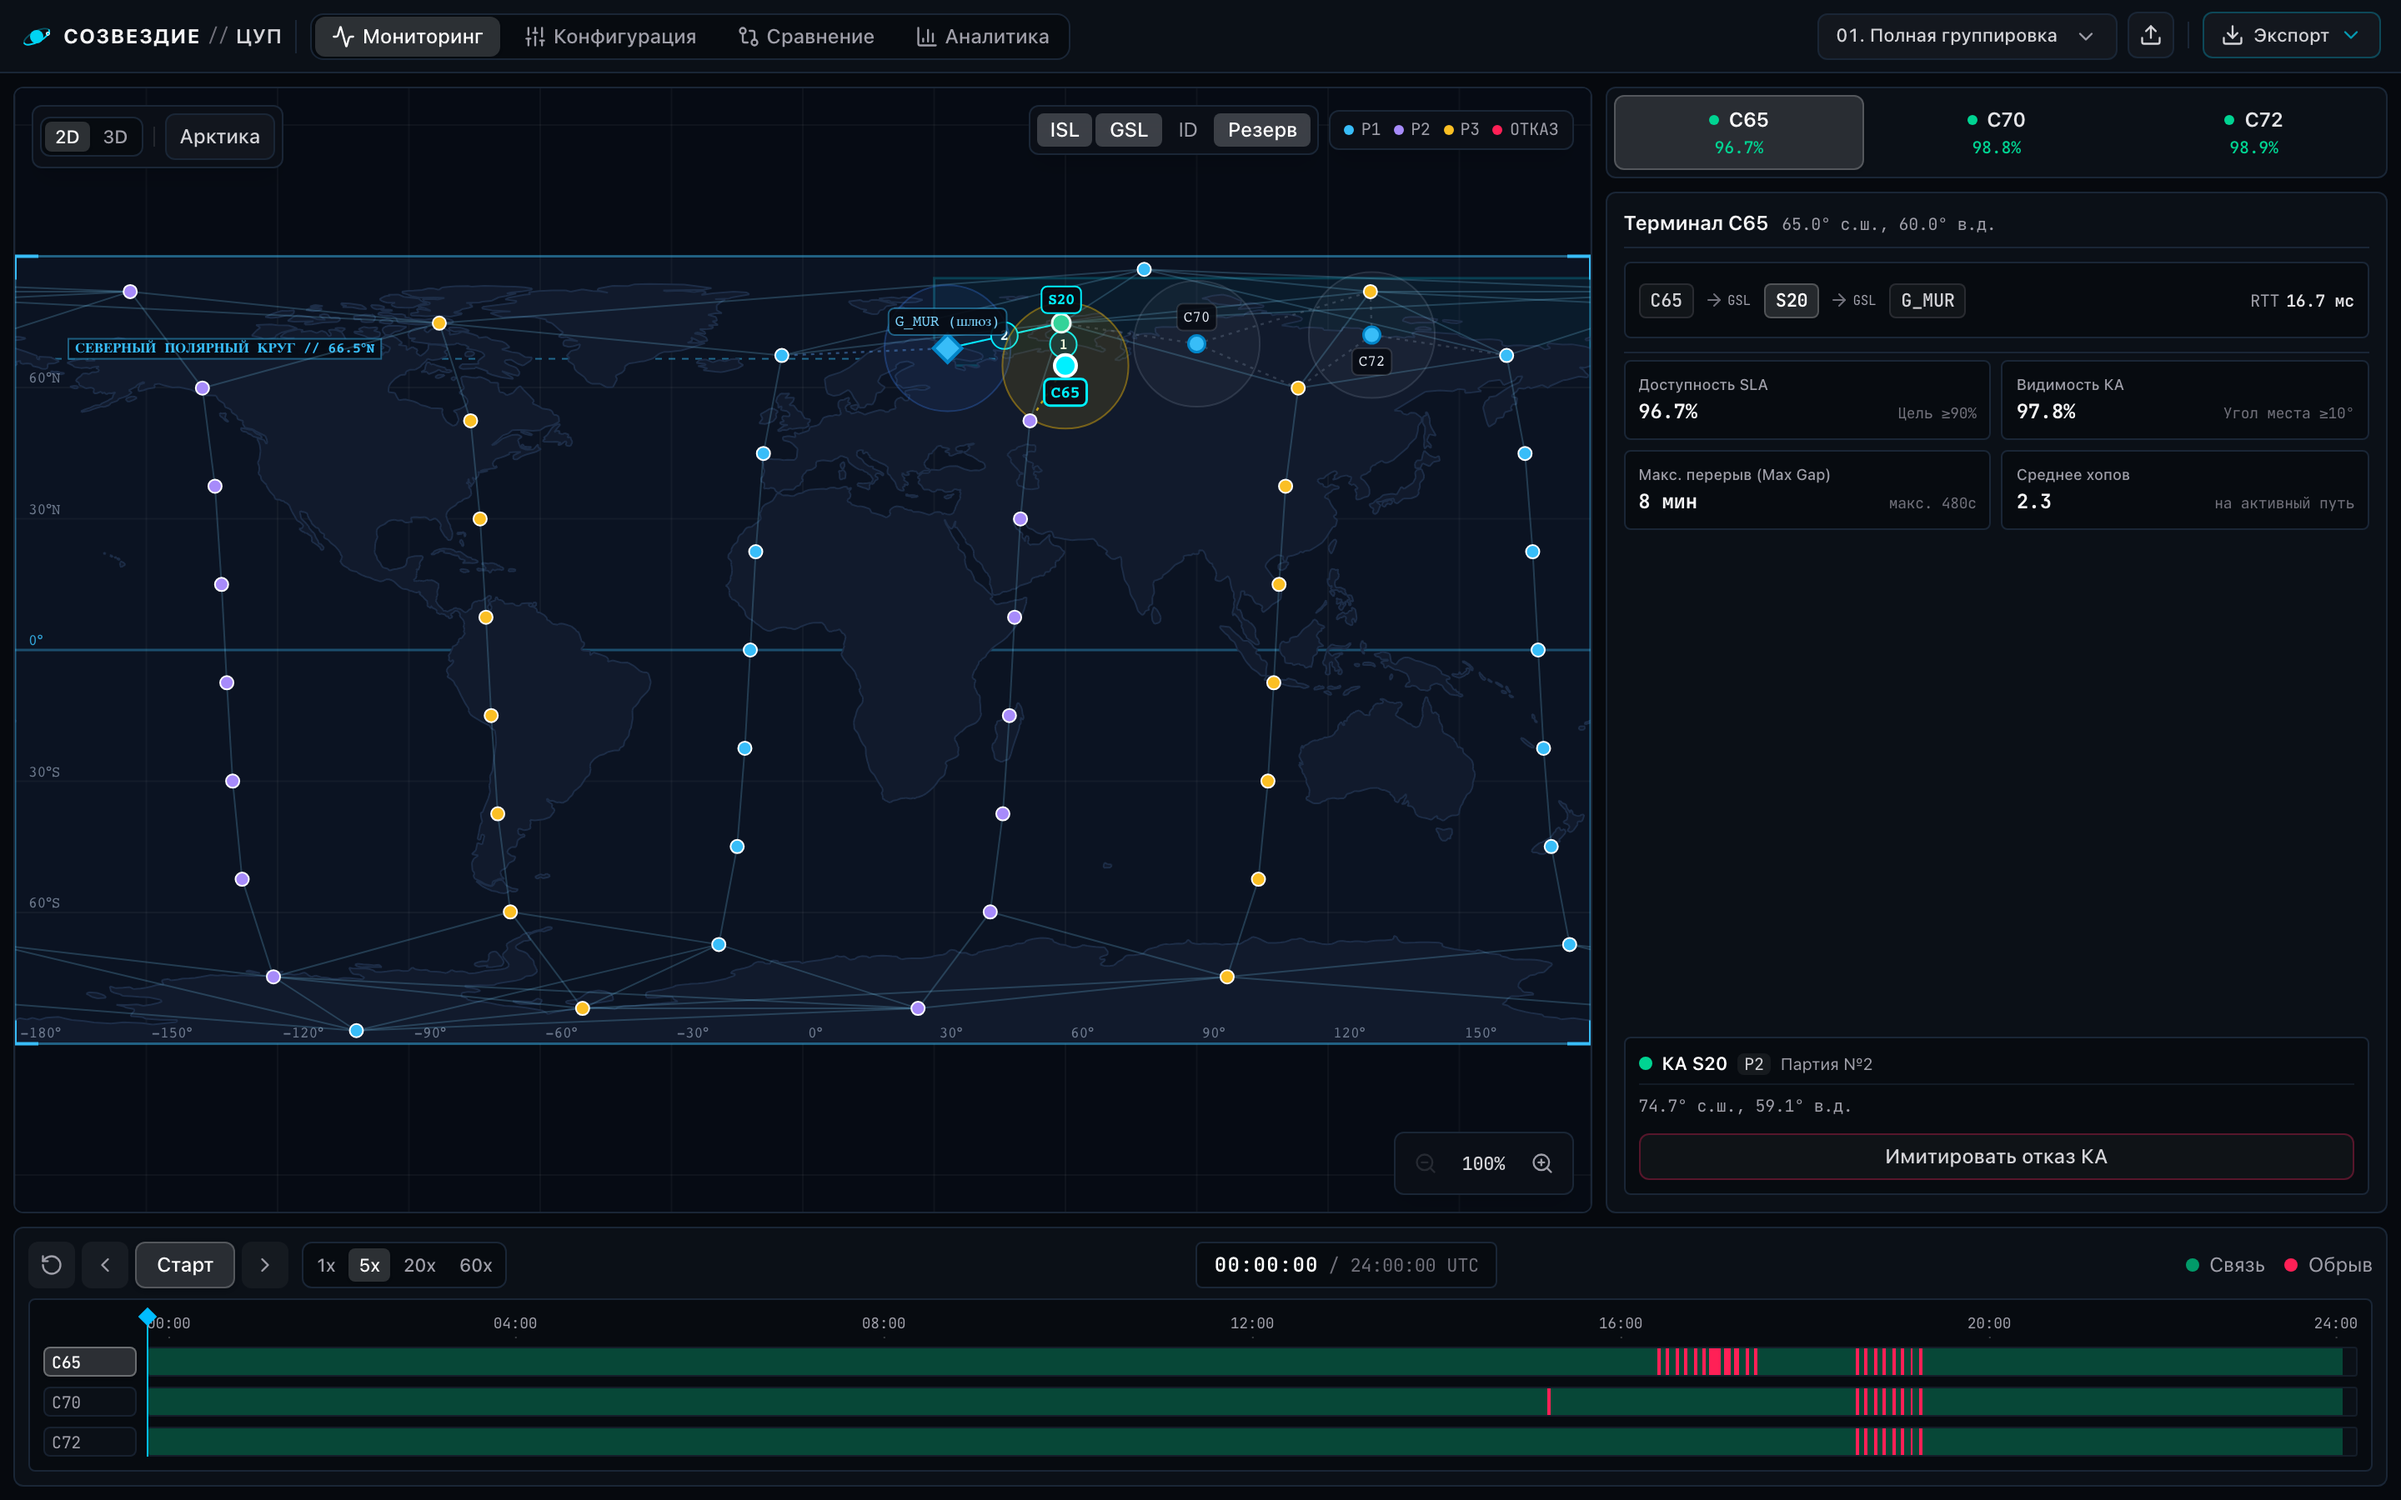
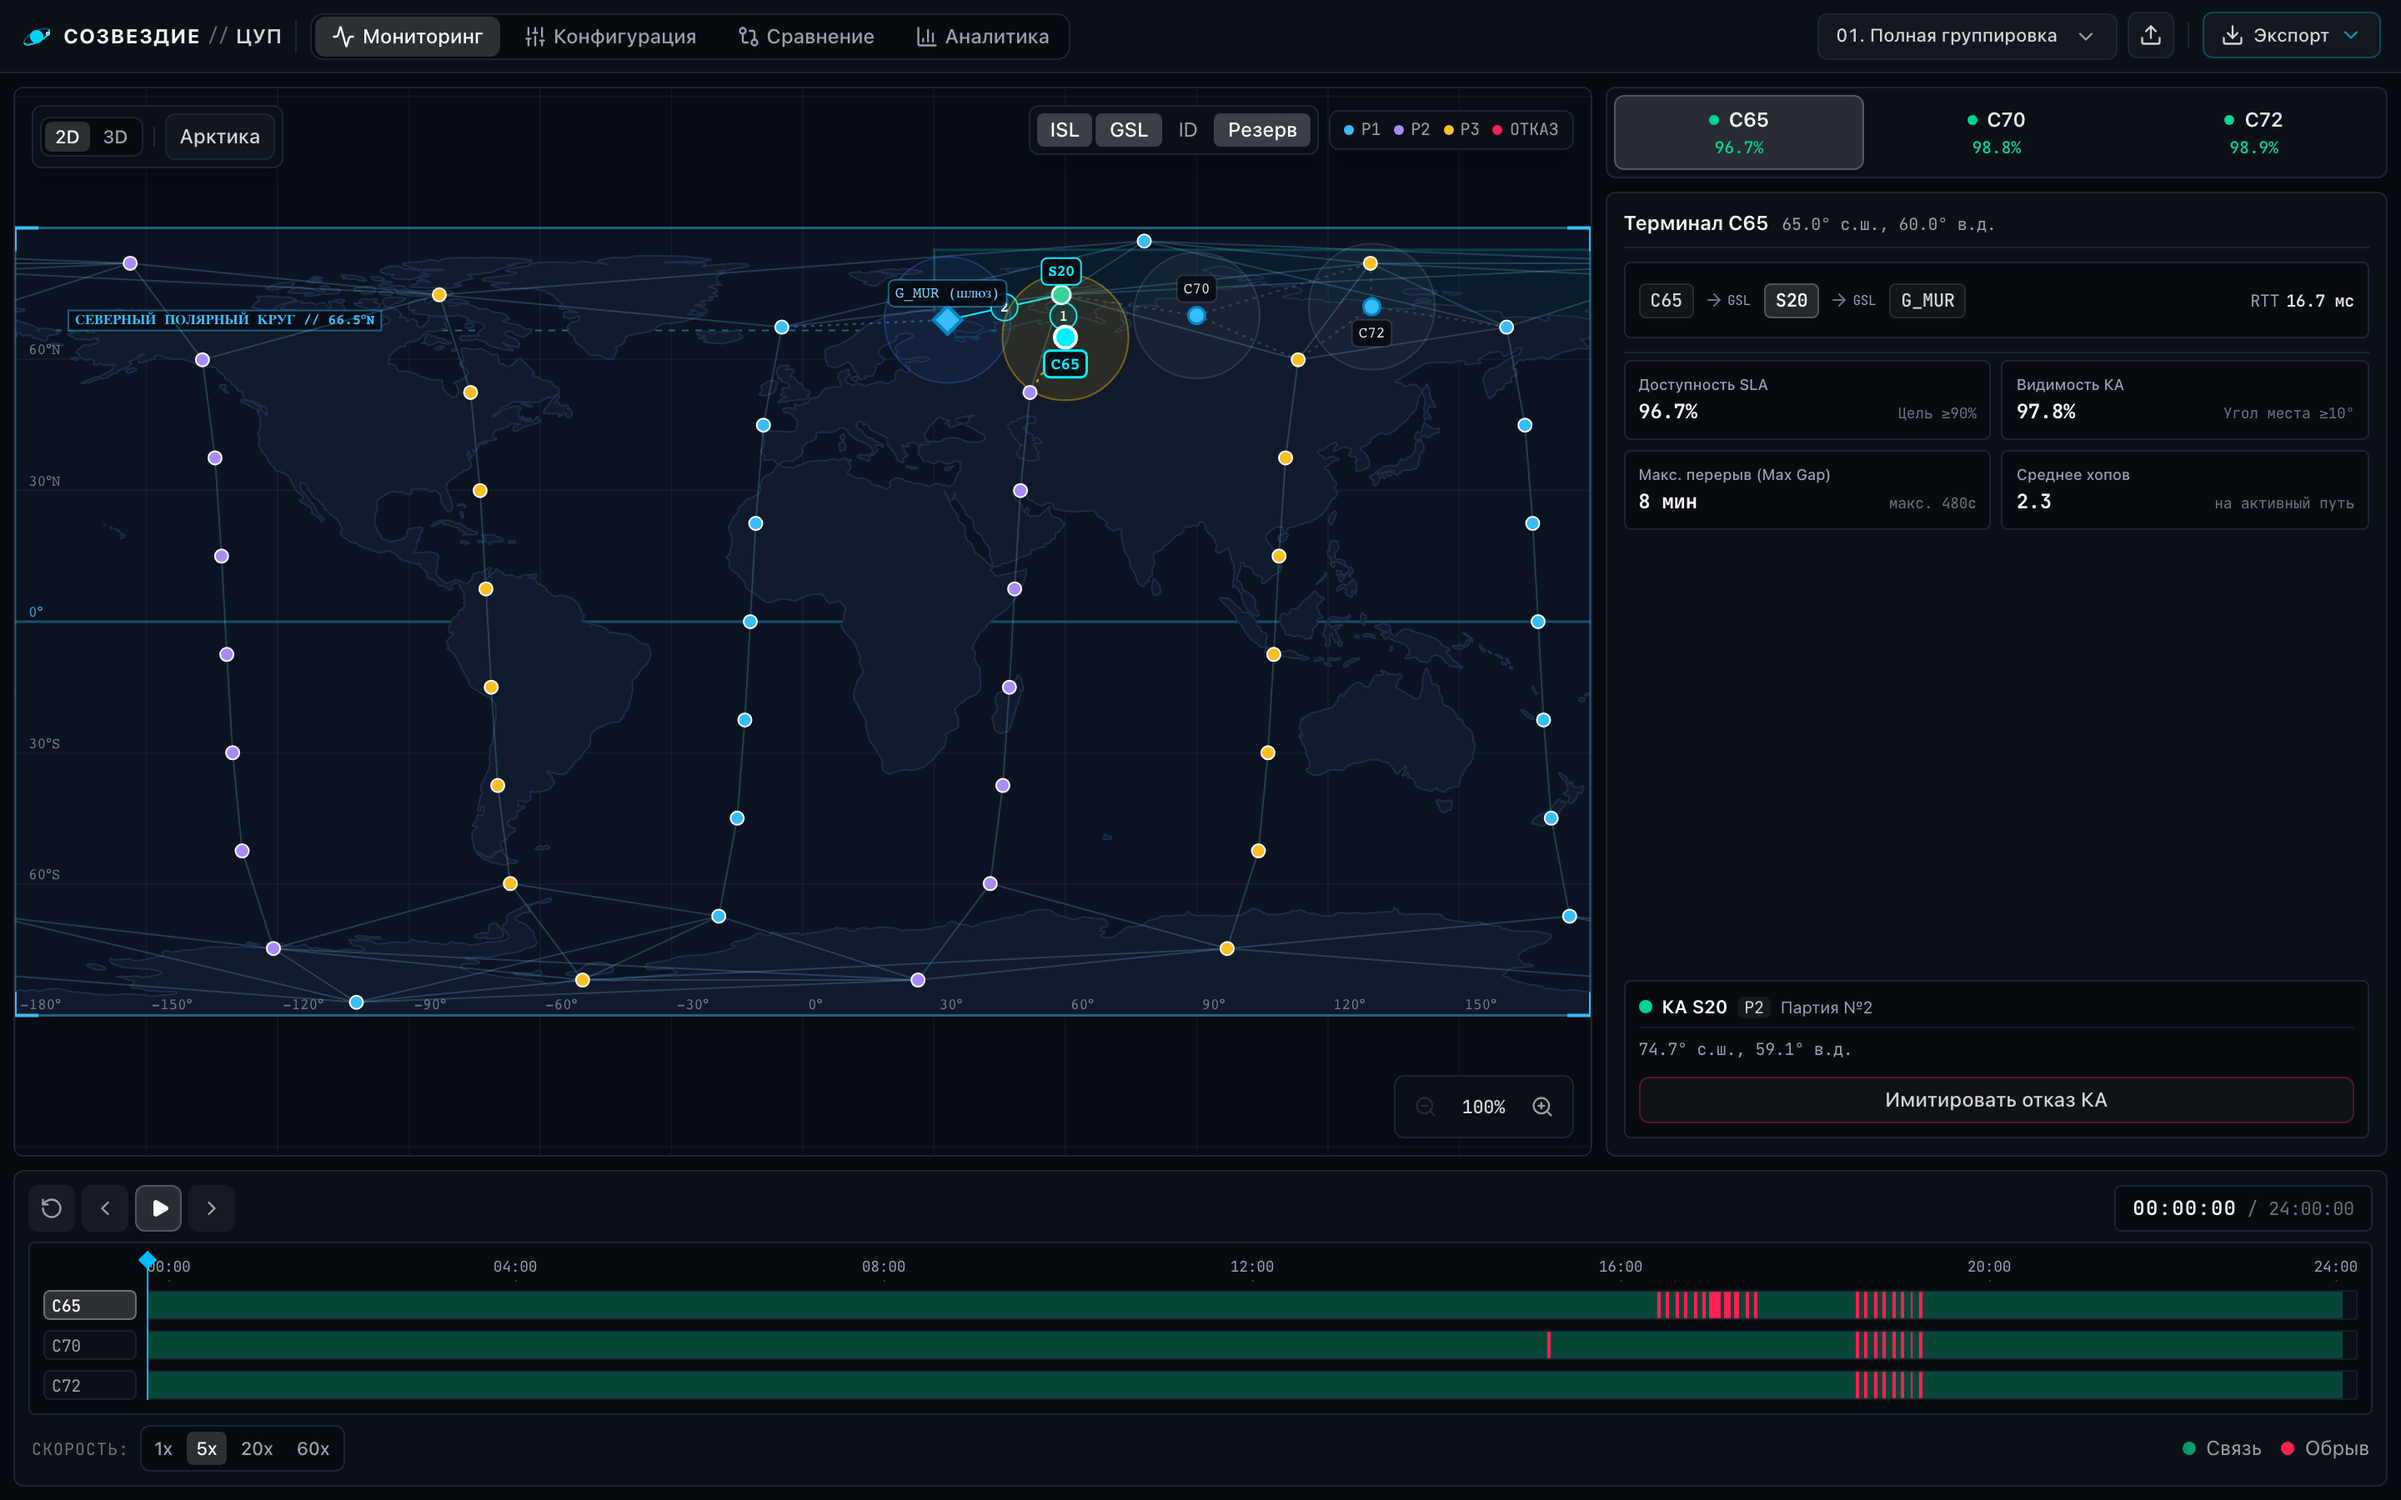
feat(timeline): layout overhaul with mobile controls parity

diff --git a/frontend/src/components/timeline/TimelinePlayer.tsx b/frontend/src/components/timeline/TimelinePlayer.tsx
@@ -3,6 +3,8 @@ import {
   RotateCcw,
   ChevronLeft,
   ChevronRight,
+  Play,
+  Pause,
 } from 'lucide-react'
 import type { Scenario, ClientTimeline, TimelineSlot } from '../../types/scenario'
 import { Button, SegmentedControl, ClientSelector } from '../ui'
@@ -218,18 +220,18 @@ export const TimelinePlayer: React.FC<TimelinePlayerProps> = ({
   return (
     <div className="p-2 bg-[#0b1017] border border-[#1a2636] rounded-md flex flex-col gap-1.5 select-none font-mono">
       {/* Top Row: Playback Controls & Time readout */}
-      <div className="flex items-center justify-between gap-1 sm:gap-2 flex-wrap">
-        {/* Play / Step Buttons & Speed */}
-        <div className="flex items-center gap-0.5 sm:gap-1 shrink-0">
+      <div className="flex items-center justify-between gap-1 sm:gap-2">
+        {/* Play / Step Buttons */}
+        <div className="flex items-center gap-1 shrink-0">
           <Button
             type="button"
             variant="ghost"
             size="icon"
             onClick={() => onTimeChange(0)}
             title="В начало (00:00:00)"
-            className="h-7 w-6 sm:w-7 border border-[#1a2636] bg-white/5 hover:bg-white/10 shrink-0"
+            className="h-7 w-7 border border-[#1a2636] bg-white/5 hover:bg-white/10 shrink-0 p-0"
           >
-            <RotateCcw className="w-3 sm:w-3.5 h-3 sm:h-3.5" />
+            <RotateCcw className="w-3.5 h-3.5" />
           </Button>
 
           <Button
@@ -238,20 +240,25 @@ export const TimelinePlayer: React.FC<TimelinePlayerProps> = ({
             size="icon"
             onClick={() => onTimeChange(Math.max(0, currentTime - step_s))}
             title="Шаг назад (-120с)"
-            className="h-7 w-6 sm:w-7 border border-[#1a2636] bg-white/5 hover:bg-white/10 shrink-0"
+            className="h-7 w-7 border border-[#1a2636] bg-white/5 hover:bg-white/10 shrink-0 p-0"
           >
-            <ChevronLeft className="w-3 sm:w-3.5 h-3 sm:h-3.5" />
+            <ChevronLeft className="w-3.5 h-3.5" />
           </Button>
 
           <Button
             type="button"
             variant={isPlaying ? 'accent' : 'primary'}
-            size="sm"
+            size="icon"
             onClick={() => setIsPlaying((v) => !v)}
+            aria-label={isPlaying ? 'Пауза' : 'Старт'}
             title={isPlaying ? 'Пауза (Пробел)' : 'Воспроизведение (Пробел)'}
-            className="h-7 px-2.5 sm:px-3 text-xs font-sans font-medium shrink-0"
+            className="h-7 w-7 shrink-0"
           >
-            <span>{isPlaying ? 'Пауза' : 'Старт'}</span>
+            {isPlaying ? (
+              <Pause className="w-3.5 h-3.5 fill-current" />
+            ) : (
+              <Play className="w-3.5 h-3.5 fill-current ml-0.5" />
+            )}
           </Button>
 
           <Button
@@ -260,19 +267,10 @@ export const TimelinePlayer: React.FC<TimelinePlayerProps> = ({
             size="icon"
             onClick={() => onTimeChange(Math.min(horizon_s - step_s, currentTime + step_s))}
             title="Шаг вперед (+120с)"
-            className="h-7 w-6 sm:w-7 border border-[#1a2636] bg-white/[0.04] hover:bg-white/[0.08] shrink-0"
+            className="h-7 w-7 border border-[#1a2636] bg-white/[0.04] hover:bg-white/[0.08] shrink-0 p-0"
           >
-            <ChevronRight className="w-3 sm:w-3.5 h-3 sm:h-3.5" />
+            <ChevronRight className="w-3.5 h-3.5" />
           </Button>
-
-          {/* Speed Selector */}
-          <SegmentedControl
-            options={speedOptions}
-            value={playbackSpeed}
-            onChange={setPlaybackSpeed}
-            size="sm"
-            className="ml-0.5 sm:ml-1 h-7"
-          />
         </div>
 
         {/* Current Time Display */}
@@ -280,23 +278,11 @@ export const TimelinePlayer: React.FC<TimelinePlayerProps> = ({
           <span className="font-semibold text-white tracking-wider text-[11px] sm:text-xs whitespace-nowrap">
             {formatTime(currentTime)}
           </span>
-          <span className="text-[11px] text-zinc-500 hidden sm:inline">/ {formatTime(horizon_s)} UTC</span>
-        </div>
-
-        {/* Legend */}
-        <div className="hidden md:flex items-center gap-3 text-xs text-zinc-400 font-sans shrink-0">
-          <span className="flex items-center gap-1.5">
-            <span className="w-2 h-2 rounded-full bg-emerald-500/80" />
-            Связь
-          </span>
-          <span className="flex items-center gap-1.5">
-            <span className="w-2 h-2 rounded-full bg-rose-500" />
-            Обрыв
-          </span>
+          <span className="text-[10px] sm:text-[11px] text-zinc-500 whitespace-nowrap">/ {formatTime(horizon_s)}</span>
         </div>
       </div>
 
-      {/* Gantt & Timeline Scrubber Area */}
+      {/* Middle Area: Gantt & Timeline Scrubber Area */}
       <div className="flex gap-1.5 bg-[#070b10] p-2 rounded border border-[#1a2636]">
         {/* Left Column: Client Pills */}
         <div className="w-14 shrink-0 flex flex-col gap-1.5 pt-5">
@@ -374,6 +360,33 @@ export const TimelinePlayer: React.FC<TimelinePlayerProps> = ({
         </div>
       </div>
 
+      {/* Bottom Row: Speed Selector & Legend */}
+      <div className="flex items-center justify-between gap-2 px-0.5">
+        {/* Speed Selector */}
+        <div className="flex items-center gap-1.5 shrink-0">
+          <span className="text-[10px] text-zinc-500 uppercase tracking-wider hidden sm:inline">Скорость:</span>
+          <SegmentedControl
+            options={speedOptions}
+            value={playbackSpeed}
+            onChange={setPlaybackSpeed}
+            size="sm"
+            className="h-7"
+          />
+        </div>
+
+        {/* Legend */}
+        <div className="flex items-center gap-2.5 sm:gap-3 text-[11px] sm:text-xs text-zinc-400 font-sans shrink-0">
+          <span className="flex items-center gap-1.5">
+            <span className="w-2 h-2 rounded-full bg-emerald-500/80" />
+            Связь
+          </span>
+          <span className="flex items-center gap-1.5">
+            <span className="w-2 h-2 rounded-full bg-rose-500" />
+            Обрыв
+          </span>
+        </div>
+      </div>
+
       {/* Floating Tooltip */}
       {tooltipData && (
         <div
@@ -382,7 +395,7 @@ export const TimelinePlayer: React.FC<TimelinePlayerProps> = ({
         >
           <div className="flex items-center gap-2 font-semibold text-cyan-300 border-b border-[#1a2636] pb-1 mb-1">
             <span>{tooltipData.clientId}</span>
-            <span>{formatTime(tooltipData.slot.t_s)} UTC</span>
+            <span>{formatTime(tooltipData.slot.t_s)}</span>
           </div>
           <div className="flex items-center gap-1 text-[10px]">
             {tooltipData.slot.hasPath ? (

diff --git a/frontend/src/components/ui/Button.tsx b/frontend/src/components/ui/Button.tsx
@@ -14,7 +14,7 @@ export const Button = React.forwardRef<HTMLButtonElement, ButtonProps>(
       sm: 'text-xs px-2.5 py-1 rounded-md gap-1.5 h-7',
       md: 'text-xs px-3 py-1.5 rounded-md gap-2 h-8',
       lg: 'text-sm px-4 py-2 rounded-lg gap-2 h-9',
-      icon: 'p-1.5 rounded-md w-7 h-7 flex items-center justify-center',
+      icon: 'p-1.5 rounded-md w-7 h-7',
     }[size]
 
     const variantStyles = {

diff --git a/frontend/src/components/timeline/TimelinePlayer.test.tsx b/frontend/src/components/timeline/TimelinePlayer.test.tsx
@@ -94,7 +94,7 @@ describe('TimelinePlayer Component', () => {
     )
 
     expect(screen.getByText('01:00:00')).toBeDefined()
-    expect(screen.getByText('/ 24:00:00 UTC')).toBeDefined()
+    expect(screen.getByText('/ 24:00:00')).toBeDefined()
     expect(screen.getByRole('button', { name: /старт/i })).toBeDefined()
   })
 

diff --git a/frontend/src/components/ui/SegmentedControl.tsx b/frontend/src/components/ui/SegmentedControl.tsx
@@ -29,7 +29,7 @@ export function SegmentedControl<T extends string | number>({
   }[size]
 
   const itemSizeStyles = {
-    sm: 'px-1.5 py-0.5 rounded text-[11px]',
+    sm: 'px-1 sm:px-1.5 py-0.5 rounded text-[10px] sm:text-[11px]',
     md: 'px-1.5 sm:px-2.5 py-1 rounded-md text-[11px] sm:text-xs',
   }[size]
 
